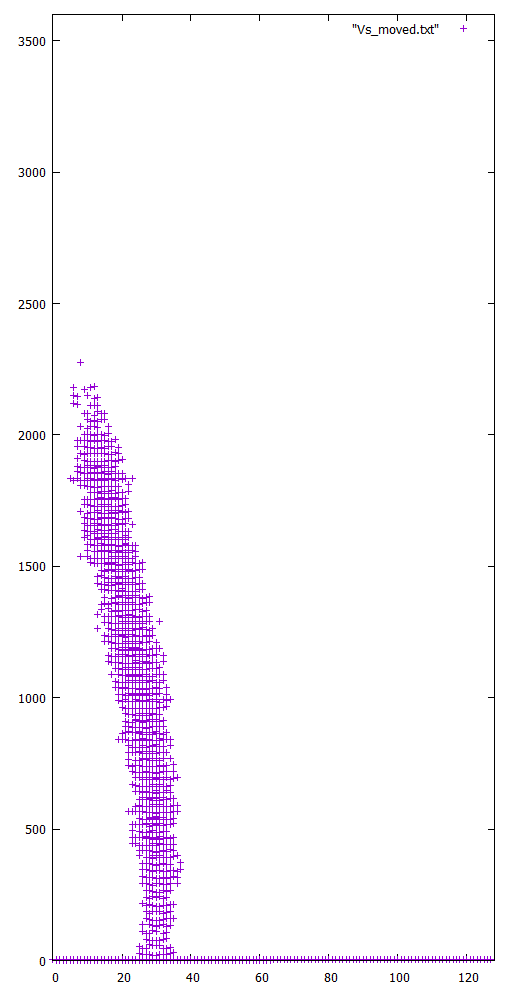
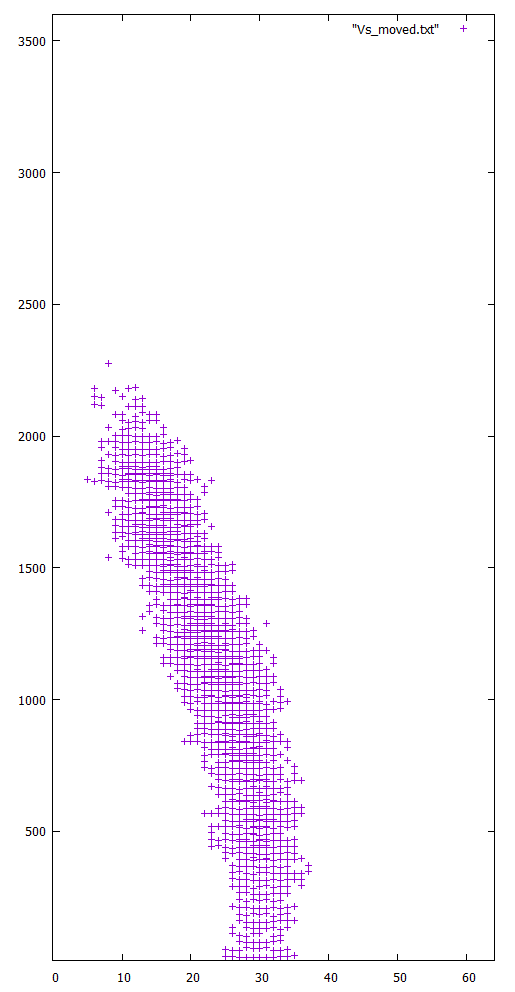
data

diff --git a/square/doiron_sinapus.cpp b/square/doiron_sinapus.cpp
@@ -174,43 +174,42 @@ void calv(double *v,double *u,double *s,double *s_egp,double *A_egp,double *V_s,
       fprintf(fp2,"%d \t %lf \n",i,inp[i]);
     }
     */
-
-    if(	0	<t and t<=	100	){	inp[i]=I0* ( (	0.690165 	 +t*	0.000005 	) *  exp( -( (i-(	95.22298	 +t*	0.000107 	))*(i-(	95.22298	 +t*	0.000107 	))) / (2*(	24.75849	 +t*	-0.000333 	 )*(	24.75849	 +t*	-0.000333 	) ))); }
-  	if(	100	<t and t<=	200	){	inp[i]=I0* ( (	0.737317 	 +(t-100)*	0.000003 	) *  exp( -( (i-(	96.29371	 +(t-100)*	0.000292 	))*(i-(	96.29371	 +(t-100)*	0.000292 	))) / (2*(	21.42548	 +(t-100)*	-0.000102 	 )*(	21.42548	 +(t-100)*	-0.000102 	) ))); }
-  	if(	200	<t and t<=	300	){	inp[i]=I0* ( (	0.762683 	 +(t-200)*	0.000006 	) *  exp( -( (i-(	99.21003	 +(t-200)*	-0.000063 	))*(i-(	99.21003	 +(t-200)*	-0.000063 	))) / (2*(	20.40085	 +(t-200)*	0.000251 	 )*(	20.40085	 +(t-200)*	0.000251 	) ))); }
-  	if(	300	<t and t<=	400	){	inp[i]=I0* ( (	0.818083 	 +(t-300)*	0.000001 	) *  exp( -( (i-(	98.57951	 +(t-300)*	0.000000 	))*(i-(	98.57951	 +(t-300)*	0.000000 	))) / (2*(	22.90907	 +(t-300)*	-0.000340 	 )*(	22.90907	 +(t-300)*	-0.000340 	) ))); }
-  	if(	400	<t and t<=	500	){	inp[i]=I0* ( (	0.825708 	 +(t-400)*	0.000001 	) *  exp( -( (i-(	98.57862	 +(t-400)*	-0.000115 	))*(i-(	98.57862	 +(t-400)*	-0.000115 	))) / (2*(	19.50725	 +(t-400)*	0.000336 	 )*(	19.50725	 +(t-400)*	0.000336 	) ))); }
-  	if(	500	<t and t<=	600	){	inp[i]=I0* ( (	0.835512 	 +(t-500)*	0.000002 	) *  exp( -( (i-(	97.43015	 +(t-500)*	-0.000144 	))*(i-(	97.43015	 +(t-500)*	-0.000144 	))) / (2*(	22.86506	 +(t-500)*	0.000435 	 )*(	22.86506	 +(t-500)*	0.000435 	) ))); }
-  	if(	600	<t and t<=	700	){	inp[i]=I0* ( (	0.851229 	 +(t-600)*	0.000004 	) *  exp( -( (i-(	95.98898	 +(t-600)*	-0.000189 	))*(i-(	95.98898	 +(t-600)*	-0.000189 	))) / (2*(	27.21644	 +(t-600)*	-0.000448 	 )*(	27.21644	 +(t-600)*	-0.000448 	) ))); }
-  	if(	700	<t and t<=	800	){	inp[i]=I0* ( (	0.887955 	 +(t-700)*	0.000005 	) *  exp( -( (i-(	91.27445	 +(t-700)*	-0.000471 	))*(i-(	91.27445	 +(t-700)*	-0.000471 	))) / (2*(	19.5221	 +(t-700)*	-0.000769 	 )*(	19.5221	 +(t-700)*	-0.000769 	) ))); }
-  	if(	800	<t and t<=	900	){	inp[i]=I0* ( (	0.904451 	 +(t-800)*	0.000002 	) *  exp( -( (i-(	91.32518	 +(t-800)*	0.000005 	))*(i-(	91.32518	 +(t-800)*	0.000005 	))) / (2*(	26.1434	 +(t-800)*	0.000662 	 )*(	26.1434	 +(t-800)*	0.000662 	) ))); }
-  	if(	900	<t and t<=	1000	){	inp[i]=I0* ( (	0.919546 	 +(t-900)*	-0.000001 	) *  exp( -( (i-(	89.96951	 +(t-900)*	-0.000136 	))*(i-(	89.96951	 +(t-900)*	-0.000136 	))) / (2*(	28.62637	 +(t-900)*	0.000248 	 )*(	28.62637	 +(t-900)*	0.000248 	) ))); }
-  	if(	1000	<t and t<=	1100	){	inp[i]=I0* ( (	0.913321 	 +(t-1000)*	0.000004 	) *  exp( -( (i-(	86.24475	 +(t-1000)*	-0.000372 	))*(i-(	86.24475	 +(t-1000)*	-0.000372 	))) / (2*(	23.88185	 +(t-1000)*	-0.000474 	 )*(	23.88185	 +(t-1000)*	-0.000474 	) ))); }
-  	if(	1100	<t and t<=	1200	){	inp[i]=I0* ( (	0.955026 	 +(t-1100)*	0.000000 	) *  exp( -( (i-(	85.67346	 +(t-1100)*	-0.000057 	))*(i-(	85.67346	 +(t-1100)*	-0.000057 	))) / (2*(	26.86954	 +(t-1100)*	0.000299 	 )*(	26.86954	 +(t-1100)*	0.000299 	) ))); }
-  	if(	1200	<t and t<=	1300	){	inp[i]=I0* ( (	0.956116 	 +(t-1200)*	0.000000 	) *  exp( -( (i-(	83.19856	 +(t-1200)*	-0.000247 	))*(i-(	83.19856	 +(t-1200)*	-0.000247 	))) / (2*(	31.18158	 +(t-1200)*	0.000431 	 )*(	31.18158	 +(t-1200)*	0.000431 	) ))); }
-  	if(	1300	<t and t<=	1400	){	inp[i]=I0* ( (	0.954560 	 +(t-1300)*	0.000003 	) *  exp( -( (i-(	80.06755	 +(t-1300)*	-0.000313 	))*(i-(	80.06755	 +(t-1300)*	-0.000313 	))) / (2*(	28.80237	 +(t-1300)*	-0.000238 	 )*(	28.80237	 +(t-1300)*	-0.000238 	) ))); }
-  	if(	1400	<t and t<=	1500	){	inp[i]=I0* ( (	0.985528 	 +(t-1400)*	0.000000 	) *  exp( -( (i-(	75.7286	 +(t-1400)*	-0.000434 	))*(i-(	75.7286	 +(t-1400)*	-0.000434 	))) / (2*(	28.82731	 +(t-1400)*	0.000002 	 )*(	28.82731	 +(t-1400)*	0.000002 	) ))); }
-  	if(	1500	<t and t<=	1600	){	inp[i]=I0* ( (	0.983193 	 +(t-1500)*	0.000000 	) *  exp( -( (i-(	72.03123	 +(t-1500)*	-0.000370 	))*(i-(	72.03123	 +(t-1500)*	-0.000370 	))) / (2*(	28.36692	 +(t-1500)*	-0.000046 	 )*(	28.36692	 +(t-1500)*	-0.000046 	) ))); }
-  	if(	1600	<t and t<=	1700	){	inp[i]=I0* ( (	0.985216 	 +(t-1600)*	0.000002 	) *  exp( -( (i-(	71.78178	 +(t-1600)*	-0.000025 	))*(i-(	71.78178	 +(t-1600)*	-0.000025 	))) / (2*(	28.58217	 +(t-1600)*	0.000022 	 )*(	28.58217	 +(t-1600)*	0.000022 	) ))); }
-  	if(	1700	<t and t<=	1800	){	inp[i]=I0* ( (	1.003424 	 +(t-1700)*	0.000000 	) *  exp( -( (i-(	68.32759	 +(t-1700)*	-0.000345 	))*(i-(	68.32759	 +(t-1700)*	-0.000345 	))) / (2*(	28.89617	 +(t-1700)*	0.000031 	 )*(	28.89617	 +(t-1700)*	0.000031 	) ))); }
-  	if(	1800	<t and t<=	1900	){	inp[i]=I0* ( (	1.000000 	 +(t-1800)*	-0.000005 	) *  exp( -( (i-(	66.15402	 +(t-1800)*	-0.000217 	))*(i-(	66.15402	 +(t-1800)*	-0.000217 	))) / (2*(	31.90236	 +(t-1800)*	0.000301 	 )*(	31.90236	 +(t-1800)*	0.000301 	) ))); }
-  	if(	1900	<t and t<=	2000	){	inp[i]=I0* ( (	0.950825 	 +(t-1900)*	-0.000004 	) *  exp( -( (i-(	62.22859	 +(t-1900)*	-0.000393 	))*(i-(	62.22859	 +(t-1900)*	-0.000393 	))) / (2*(	28.74841	 +(t-1900)*	-0.000315 	 )*(	28.74841	 +(t-1900)*	-0.000315 	) ))); }
-  	if(	2000	<t and t<=	2100	){	inp[i]=I0* ( (	0.909742 	 +(t-2000)*	-0.000002 	) *  exp( -( (i-(	60.12451	 +(t-2000)*	-0.000210 	))*(i-(	60.12451	 +(t-2000)*	-0.000210 	))) / (2*(	26.91961	 +(t-2000)*	-0.000183 	 )*(	26.91961	 +(t-2000)*	-0.000183 	) ))); }
-  	if(	2100	<t and t<=	2200	){	inp[i]=I0* ( (	0.886399 	 +(t-2100)*	-0.000007 	) *  exp( -( (i-(	57.40345	 +(t-2100)*	-0.000272 	))*(i-(	57.40345	 +(t-2100)*	-0.000272 	))) / (2*(	28.22486	 +(t-2100)*	0.000131 	 )*(	28.22486	 +(t-2100)*	0.000131 	) ))); }
-  	if(	2200	<t and t<=	2300	){	inp[i]=I0* ( (	0.818083 	 +(t-2200)*	-0.000004 	) *  exp( -( (i-(	55.42279	 +(t-2200)*	-0.000198 	))*(i-(	55.42279	 +(t-2200)*	-0.000198 	))) / (2*(	27.4255	 +(t-2200)*	-0.000080 	 )*(	27.4255	 +(t-2200)*	-0.000080 	) ))); }
-  	if(	2300	<t and t<=	2400	){	inp[i]=I0* ( (	0.779490 	 +(t-2300)*	-0.000006 	) *  exp( -( (i-(	52.05361	 +(t-2300)*	-0.000337 	))*(i-(	52.05361	 +(t-2300)*	-0.000337 	))) / (2*(	28.57791	 +(t-2300)*	0.000115 	 )*(	28.57791	 +(t-2300)*	0.000115 	) ))); }
-  	if(	2400	<t and t<=	2500	){	inp[i]=I0* ( (	0.716931 	 +(t-2400)*	-0.000004 	) *  exp( -( (i-(	51.18429	 +(t-2400)*	-0.000087 	))*(i-(	51.18429	 +(t-2400)*	-0.000087 	))) / (2*(	27.32592	 +(t-2400)*	-0.000125 	 )*(	27.32592	 +(t-2400)*	-0.000125 	) ))); }
-  	if(	2500	<t and t<=	2600	){	inp[i]=I0* ( (	0.679116 	 +(t-2500)*	-0.000005 	) *  exp( -( (i-(	49.85307	 +(t-2500)*	-0.000133 	))*(i-(	49.85307	 +(t-2500)*	-0.000133 	))) / (2*(	27.79217	 +(t-2500)*	0.000047 	 )*(	27.79217	 +(t-2500)*	0.000047 	) ))); }
-  	if(	2600	<t and t<=	2700	){	inp[i]=I0* ( (	0.633364 	 +(t-2600)*	-0.000006 	) *  exp( -( (i-(	49.83444	 +(t-2600)*	-0.000002 	))*(i-(	49.83444	 +(t-2600)*	-0.000002 	))) / (2*(	26.70638	 +(t-2600)*	-0.000109 	 )*(	26.70638	 +(t-2600)*	-0.000109 	) ))); }
-  	if(	2700	<t and t<=	2800	){	inp[i]=I0* ( (	0.568783 	 +(t-2700)*	-0.000005 	) *  exp( -( (i-(	47.88513	 +(t-2700)*	-0.000195 	))*(i-(	47.88513	 +(t-2700)*	-0.000195 	))) / (2*(	29.3359	 +(t-2700)*	0.000263 	 )*(	29.3359	 +(t-2700)*	0.000263 	) ))); }
-  	if(	2800	<t and t<=	2900	){	inp[i]=I0* ( (	0.520853 	 +(t-2800)*	-0.000005 	) *  exp( -( (i-(	47.616	 +(t-2800)*	-0.000027 	))*(i-(	47.616	 +(t-2800)*	-0.000027 	))) / (2*(	29.93584	 +(t-2800)*	0.000060 	 )*(	29.93584	 +(t-2800)*	0.000060 	) ))); }
-  	if(	2900	<t and t<=	3000	){	inp[i]=I0* ( (	0.466542 	 +(t-2900)*	-0.000005 	) *  exp( -( (i-(	48.02598	 +(t-2900)*	0.000041 	))*(i-(	48.02598	 +(t-2900)*	0.000041 	))) / (2*(	26.57341	 +(t-2900)*	-0.000336 	 )*(	26.57341	 +(t-2900)*	-0.000336 	) ))); }
-  	if(	3000	<t and t<=	3100	){	inp[i]=I0* ( (	0.419701 	 +(t-3000)*	-0.000007 	) *  exp( -( (i-(	54.16288	 +(t-3000)*	0.000614 	))*(i-(	54.16288	 +(t-3000)*	0.000614 	))) / (2*(	32.95787	 +(t-3000)*	0.000638 	 )*(	32.95787	 +(t-3000)*	0.000638 	) ))); }
-  	if(	3100	<t and t<=	3200	){	inp[i]=I0* ( (	0.353252 	 +(t-3100)*	-0.000002 	) *  exp( -( (i-(	61.20131	 +(t-3100)*	0.000704 	))*(i-(	61.20131	 +(t-3100)*	0.000704 	))) / (2*(	30.37332	 +(t-3100)*	-0.000258 	 )*(	30.37332	 +(t-3100)*	-0.000258 	) ))); }
-  	if(	3200	<t and t<=	3300	){	inp[i]=I0* ( (	0.330843 	 +(t-3200)*	0.000000 	) *  exp( -( (i-(	75.28752	 +(t-3200)*	0.001409 	))*(i-(	75.28752	 +(t-3200)*	0.001409 	))) / (2*(	44.24161	 +(t-3200)*	0.001387 	 )*(	44.24161	 +(t-3200)*	0.001387 	) ))); }
-  	if(	3300	<t and t<=	3400	){	inp[i]=I0* ( (	0.329132 	 +(t-3300)*	0.000007 	) *  exp( -( (i-(	85.78446	 +(t-3300)*	0.001050 	))*(i-(	85.78446	 +(t-3300)*	0.001050 	))) / (2*(	24.30534	 +(t-3300)*	-0.001994 	 )*(	24.30534	 +(t-3300)*	-0.001994 	) ))); }
-  	if(	3400	<t and t<=	3500	){	inp[i]=I0* ( (	0.397915 	 +(t-3400)*	0.000011 	) *  exp( -( (i-(	91.28252	 +(t-3400)*	0.000550 	))*(i-(	91.28252	 +(t-3400)*	0.000550 	))) / (2*(	26.89889	 +(t-3400)*	0.000259 	 )*(	26.89889	 +(t-3400)*	0.000259 	) ))); }
-  	if(	3500	<t and t<=	3600	){	inp[i]=I0* ( (	0.508092 	 +(t-3500)*	0.000018 	) *  exp( -( (i-(	95.22298	 +(t-3500)*	0.000394 	))*(i-(	95.22298	 +(t-3500)*	0.000394 	))) / (2*(	24.75849	 +(t-3500)*	-0.000214 	 )*(	24.75849	 +(t-3500)*	-0.000214 	) ))); }
+    if(	0	<t and t<=	100	){	inp[i]=I0* ( (	0.891284 	 +t*	0.000000 	) *  exp( -( (i-(	59.27471	 +t*	0.000189 	))*(i-(	59.27471	 +t*	0.000189 	))) / (2*(	24.38624	 +t*	0.000424 	 )*(	24.38624	 +t*	0.000424 	) ))); }
+  	if(	100	<t and t<=	200	){	inp[i]=I0* ( (	0.891100 	 +(t-100)*	0.000001 	) *  exp( -( (i-(	61.16131	 +(t-100)*	-0.000069 	))*(i-(	61.16131	 +(t-100)*	-0.000069 	))) / (2*(	28.62596	 +(t-100)*	-0.000200 	 )*(	28.62596	 +(t-100)*	-0.000200 	) ))); }
+  	if(	200	<t and t<=	300	){	inp[i]=I0* ( (	0.901419 	 +(t-200)*	0.000003 	) *  exp( -( (i-(	60.47362	 +(t-200)*	0.000142 	))*(i-(	60.47362	 +(t-200)*	0.000142 	))) / (2*(	26.62462	 +(t-200)*	-0.000071 	 )*(	26.62462	 +(t-200)*	-0.000071 	) ))); }
+  	if(	300	<t and t<=	400	){	inp[i]=I0* ( (	0.927584 	 +(t-300)*	0.000004 	) *  exp( -( (i-(	61.89209	 +(t-300)*	-0.000345 	))*(i-(	61.89209	 +(t-300)*	-0.000345 	))) / (2*(	25.91791	 +(t-300)*	-0.000452 	 )*(	25.91791	 +(t-300)*	-0.000452 	) ))); }
+  	if(	400	<t and t<=	500	){	inp[i]=I0* ( (	0.969965 	 +(t-400)*	0.000001 	) *  exp( -( (i-(	58.43922	 +(t-400)*	0.000134 	))*(i-(	58.43922	 +(t-400)*	0.000134 	))) / (2*(	21.40212	 +(t-400)*	0.000418 	 )*(	21.40212	 +(t-400)*	0.000418 	) ))); }
+  	if(	500	<t and t<=	600	){	inp[i]=I0* ( (	0.977520 	 +(t-500)*	-0.000001 	) *  exp( -( (i-(	59.77896	 +(t-500)*	-0.000121 	))*(i-(	59.77896	 +(t-500)*	-0.000121 	))) / (2*(	25.5784	 +(t-500)*	0.000007 	 )*(	25.5784	 +(t-500)*	0.000007 	) ))); }
+  	if(	600	<t and t<=	700	){	inp[i]=I0* ( (	0.963884 	 +(t-600)*	0.000000 	) *  exp( -( (i-(	58.57392	 +(t-600)*	-0.000223 	))*(i-(	58.57392	 +(t-600)*	-0.000223 	))) / (2*(	25.65056	 +(t-600)*	-0.000053 	 )*(	25.65056	 +(t-600)*	-0.000053 	) ))); }
+  	if(	700	<t and t<=	800	){	inp[i]=I0* ( (	0.967201 	 +(t-700)*	0.000002 	) *  exp( -( (i-(	54.94731	 +(t-700)*	-0.000363 	))*(i-(	54.94731	 +(t-700)*	-0.000363 	))) / (2*(	25.5331	 +(t-700)*	-0.000012 	 )*(	25.5331	 +(t-700)*	-0.000012 	) ))); }
+  	if(	800	<t and t<=	900	){	inp[i]=I0* ( (	0.982863 	 +(t-800)*	-0.000001 	) *  exp( -( (i-(	53.73758	 +(t-800)*	-0.000121 	))*(i-(	53.73758	 +(t-800)*	-0.000121 	))) / (2*(	26.70461	 +(t-800)*	0.000117 	 )*(	26.70461	 +(t-800)*	0.000117 	) ))); }
+  	if(	900	<t and t<=	1000	){	inp[i]=I0* ( (	0.972545 	 +(t-900)*	0.000002 	) *  exp( -( (i-(	52.61918	 +(t-900)*	-0.000112 	))*(i-(	52.61918	 +(t-900)*	-0.000112 	))) / (2*(	27.3978	 +(t-900)*	0.000069 	 )*(	27.3978	 +(t-900)*	0.000069 	) ))); }
+  	if(	1000	<t and t<=	1100	){	inp[i]=I0* ( (	0.992261 	 +(t-1000)*	-0.000001 	) *  exp( -( (i-(	48.90762	 +(t-1000)*	-0.000371 	))*(i-(	48.90762	 +(t-1000)*	-0.000371 	))) / (2*(	27.32849	 +(t-1000)*	-0.000007 	 )*(	27.32849	 +(t-1000)*	-0.000007 	) ))); }
+  	if(	1100	<t and t<=	1200	){	inp[i]=I0* ( (	0.986364 	 +(t-1100)*	0.000001 	) *  exp( -( (i-(	46.60458	 +(t-1100)*	-0.000230 	))*(i-(	46.60458	 +(t-1100)*	-0.000230 	))) / (2*(	30.67393	 +(t-1100)*	0.000335 	 )*(	30.67393	 +(t-1100)*	0.000335 	) ))); }
+  	if(	1200	<t and t<=	1300	){	inp[i]=I0* ( (	0.992629 	 +(t-1200)*	-0.000001 	) *  exp( -( (i-(	43.61977	 +(t-1200)*	-0.000298 	))*(i-(	43.61977	 +(t-1200)*	-0.000298 	))) / (2*(	26.67837	 +(t-1200)*	-0.000400 	 )*(	26.67837	 +(t-1200)*	-0.000400 	) ))); }
+  	if(	1300	<t and t<=	1400	){	inp[i]=I0* ( (	0.978257 	 +(t-1300)*	0.000000 	) *  exp( -( (i-(	42.37567	 +(t-1300)*	-0.000124 	))*(i-(	42.37567	 +(t-1300)*	-0.000124 	))) / (2*(	29.13253	 +(t-1300)*	0.000245 	 )*(	29.13253	 +(t-1300)*	0.000245 	) ))); }
+  	if(	1400	<t and t<=	1500	){	inp[i]=I0* ( (	0.974940 	 +(t-1400)*	0.000002 	) *  exp( -( (i-(	38.69343	 +(t-1400)*	-0.000368 	))*(i-(	38.69343	 +(t-1400)*	-0.000368 	))) / (2*(	27.28079	 +(t-1400)*	-0.000185 	 )*(	27.28079	 +(t-1400)*	-0.000185 	) ))); }
+  	if(	1500	<t and t<=	1600	){	inp[i]=I0* ( (	0.999631 	 +(t-1500)*	-0.000001 	) *  exp( -( (i-(	34.63195	 +(t-1500)*	-0.000406 	))*(i-(	34.63195	 +(t-1500)*	-0.000406 	))) / (2*(	30.39242	 +(t-1500)*	0.000311 	 )*(	30.39242	 +(t-1500)*	0.000311 	) ))); }
+  	if(	1600	<t and t<=	1700	){	inp[i]=I0* ( (	0.990234 	 +(t-1600)*	-0.000001 	) *  exp( -( (i-(	31.37259	 +(t-1600)*	-0.000326 	))*(i-(	31.37259	 +(t-1600)*	-0.000326 	))) / (2*(	29.42133	 +(t-1600)*	-0.000097 	 )*(	29.42133	 +(t-1600)*	-0.000097 	) ))); }
+  	if(	1700	<t and t<=	1800	){	inp[i]=I0* ( (	0.977520 	 +(t-1700)*	0.000002 	) *  exp( -( (i-(	29.99838	 +(t-1700)*	-0.000137 	))*(i-(	29.99838	 +(t-1700)*	-0.000137 	))) / (2*(	26.01006	 +(t-1700)*	-0.000341 	 )*(	26.01006	 +(t-1700)*	-0.000341 	) ))); }
+  	if(	1800	<t and t<=	1900	){	inp[i]=I0* ( (	1.000000 	 +(t-1800)*	-0.000006 	) *  exp( -( (i-(	26.74168	 +(t-1800)*	-0.000326 	))*(i-(	26.74168	 +(t-1800)*	-0.000326 	))) / (2*(	27.39393	 +(t-1800)*	0.000138 	 )*(	27.39393	 +(t-1800)*	0.000138 	) ))); }
+  	if(	1900	<t and t<=	2000	){	inp[i]=I0* ( (	0.942141 	 +(t-1900)*	-0.000006 	) *  exp( -( (i-(	25.98319	 +(t-1900)*	-0.000076 	))*(i-(	25.98319	 +(t-1900)*	-0.000076 	))) / (2*(	26.29298	 +(t-1900)*	-0.000110 	 )*(	26.29298	 +(t-1900)*	-0.000110 	) ))); }
+  	if(	2000	<t and t<=	2100	){	inp[i]=I0* ( (	0.878939 	 +(t-2000)*	-0.000004 	) *  exp( -( (i-(	23.16812	 +(t-2000)*	-0.000282 	))*(i-(	23.16812	 +(t-2000)*	-0.000282 	))) / (2*(	26.00406	 +(t-2000)*	-0.000029 	 )*(	26.00406	 +(t-2000)*	-0.000029 	) ))); }
+  	if(	2100	<t and t<=	2200	){	inp[i]=I0* ( (	0.836926 	 +(t-2100)*	-0.000007 	) *  exp( -( (i-(	20.79276	 +(t-2100)*	-0.000238 	))*(i-(	20.79276	 +(t-2100)*	-0.000238 	))) / (2*(	27.94151	 +(t-2100)*	0.000194 	 )*(	27.94151	 +(t-2100)*	0.000194 	) ))); }
+  	if(	2200	<t and t<=	2300	){	inp[i]=I0* ( (	0.768196 	 +(t-2200)*	-0.000007 	) *  exp( -( (i-(	18.15388	 +(t-2200)*	-0.000264 	))*(i-(	18.15388	 +(t-2200)*	-0.000264 	))) / (2*(	27.66358	 +(t-2200)*	-0.000028 	 )*(	27.66358	 +(t-2200)*	-0.000028 	) ))); }
+  	if(	2300	<t and t<=	2400	){	inp[i]=I0* ( (	0.701493 	 +(t-2300)*	-0.000007 	) *  exp( -( (i-(	15.97034	 +(t-2300)*	-0.000218 	))*(i-(	15.97034	 +(t-2300)*	-0.000218 	))) / (2*(	26.98634	 +(t-2300)*	-0.000068 	 )*(	26.98634	 +(t-2300)*	-0.000068 	) ))); }
+  	if(	2400	<t and t<=	2500	){	inp[i]=I0* ( (	0.636079 	 +(t-2400)*	-0.000004 	) *  exp( -( (i-(	16.83395	 +(t-2400)*	0.000086 	))*(i-(	16.83395	 +(t-2400)*	0.000086 	))) / (2*(	24.8848	 +(t-2400)*	-0.000210 	 )*(	24.8848	 +(t-2400)*	-0.000210 	) ))); }
+  	if(	2500	<t and t<=	2600	){	inp[i]=I0* ( (	0.592593 	 +(t-2500)*	-0.000007 	) *  exp( -( (i-(	12.54824	 +(t-2500)*	-0.000429 	))*(i-(	12.54824	 +(t-2500)*	-0.000429 	))) / (2*(	28.21471	 +(t-2500)*	0.000333 	 )*(	28.21471	 +(t-2500)*	0.000333 	) ))); }
+  	if(	2600	<t and t<=	2700	){	inp[i]=I0* ( (	0.522020 	 +(t-2600)*	-0.000006 	) *  exp( -( (i-(	14.58176	 +(t-2600)*	0.000203 	))*(i-(	14.58176	 +(t-2600)*	0.000203 	))) / (2*(	28.58086	 +(t-2600)*	0.000037 	 )*(	28.58086	 +(t-2600)*	0.000037 	) ))); }
+  	if(	2700	<t and t<=	2800	){	inp[i]=I0* ( (	0.461397 	 +(t-2700)*	-0.000005 	) *  exp( -( (i-(	13.63782	 +(t-2700)*	-0.000094 	))*(i-(	13.63782	 +(t-2700)*	-0.000094 	))) / (2*(	31.80619	 +(t-2700)*	0.000323 	 )*(	31.80619	 +(t-2700)*	0.000323 	) ))); }
+  	if(	2800	<t and t<=	2900	){	inp[i]=I0* ( (	0.409619 	 +(t-2800)*	-0.000007 	) *  exp( -( (i-(	17.25287	 +(t-2800)*	0.000362 	))*(i-(	17.25287	 +(t-2800)*	0.000362 	))) / (2*(	36.48495	 +(t-2800)*	0.000468 	 )*(	36.48495	 +(t-2800)*	0.000468 	) ))); }
+  	if(	2900	<t and t<=	3000	){	inp[i]=I0* ( (	0.339783 	 +(t-2900)*	-0.000004 	) *  exp( -( (i-(	26.6096	 +(t-2900)*	0.000936 	))*(i-(	26.6096	 +(t-2900)*	0.000936 	))) / (2*(	34.73353	 +(t-2900)*	-0.000175 	 )*(	34.73353	 +(t-2900)*	-0.000175 	) ))); }
+  	if(	3000	<t and t<=	3100	){	inp[i]=I0* ( (	0.299982 	 +(t-3000)*	-0.000001 	) *  exp( -( (i-(	34.2642	 +(t-3000)*	0.000765 	))*(i-(	34.2642	 +(t-3000)*	0.000765 	))) / (2*(	36.98869	 +(t-3000)*	0.000226 	 )*(	36.98869	 +(t-3000)*	0.000226 	) ))); }
+  	if(	3100	<t and t<=	3200	){	inp[i]=I0* ( (	0.291505 	 +(t-3100)*	0.000003 	) *  exp( -( (i-(	46.0694	 +(t-3100)*	0.001181 	))*(i-(	46.0694	 +(t-3100)*	0.001181 	))) / (2*(	31.39383	 +(t-3100)*	-0.000559 	 )*(	31.39383	 +(t-3100)*	-0.000559 	) ))); }
+  	if(	3200	<t and t<=	3300	){	inp[i]=I0* ( (	0.324120 	 +(t-3200)*	0.000006 	) *  exp( -( (i-(	53.19747	 +(t-3200)*	0.000713 	))*(i-(	53.19747	 +(t-3200)*	0.000713 	))) / (2*(	33.40203	 +(t-3200)*	0.000201 	 )*(	33.40203	 +(t-3200)*	0.000201 	) ))); }
+  	if(	3300	<t and t<=	3400	){	inp[i]=I0* ( (	0.383453 	 +(t-3300)*	0.000013 	) *  exp( -( (i-(	55.73193	 +(t-3300)*	0.000253 	))*(i-(	55.73193	 +(t-3300)*	0.000253 	))) / (2*(	27.04269	 +(t-3300)*	-0.000636 	 )*(	27.04269	 +(t-3300)*	-0.000636 	) ))); }
+  	if(	3400	<t and t<=	3500	){	inp[i]=I0* ( (	0.514096 	 +(t-3400)*	0.000016 	) *  exp( -( (i-(	59.2389	 +(t-3400)*	0.000351 	))*(i-(	59.2389	 +(t-3400)*	0.000351 	))) / (2*(	27.77806	 +(t-3400)*	0.000074 	 )*(	27.77806	 +(t-3400)*	0.000074 	) ))); }
+  	if(	3500	<t and t<=	3600	){	inp[i]=I0* ( (	0.676064 	 +(t-3500)*	0.000022 	) *  exp( -( (i-(	59.27471	 +(t-3500)*	0.000004 	))*(i-(	59.27471	 +(t-3500)*	0.000004 	))) / (2*(	24.38624	 +(t-3500)*	-0.000339 	 )*(	24.38624	 +(t-3500)*	-0.000339 	) ))); }
 
 
     vrunge(v,inp,i);

diff --git a/triangle/gauss_tr.py b/triangle/gauss_tr.py
@@ -85,7 +85,7 @@ def main():
     plt.legend(['Fit', 'Original-data'])
     plt.xlabel('X')
     plt.ylabel('Y')
-    plt.ylim(-0.01, 0.5)
+    plt.ylim(-0.01, 0.05)
     plt.text(20, -.005, r" Ampritude : %10.5f +/- %10.5f"
           % (numpy.max(fitgauss), numpy.sqrt(covar_result[0][0]))+
           "\n Center       : %10.5f +/- %10.5f"

diff --git a/square/dendrite.h b/square/dendrite.h
@@ -86,7 +86,7 @@ const int FT=500;
 const int sq = sqrt(NUM);
 const double sigma = NUM/10;
 
-const double I0= 20;
+const double I0= 60;
 const double I0lif=10;
 
 

diff --git a/square/ISI and PSTH.py b/square/ISI and PSTH.py
@@ -19,7 +19,7 @@ def main():
     j=0
     k=0
     tmps=0
-    size=10000
+    size=60000
     time=3600
     cutsize=20
 
